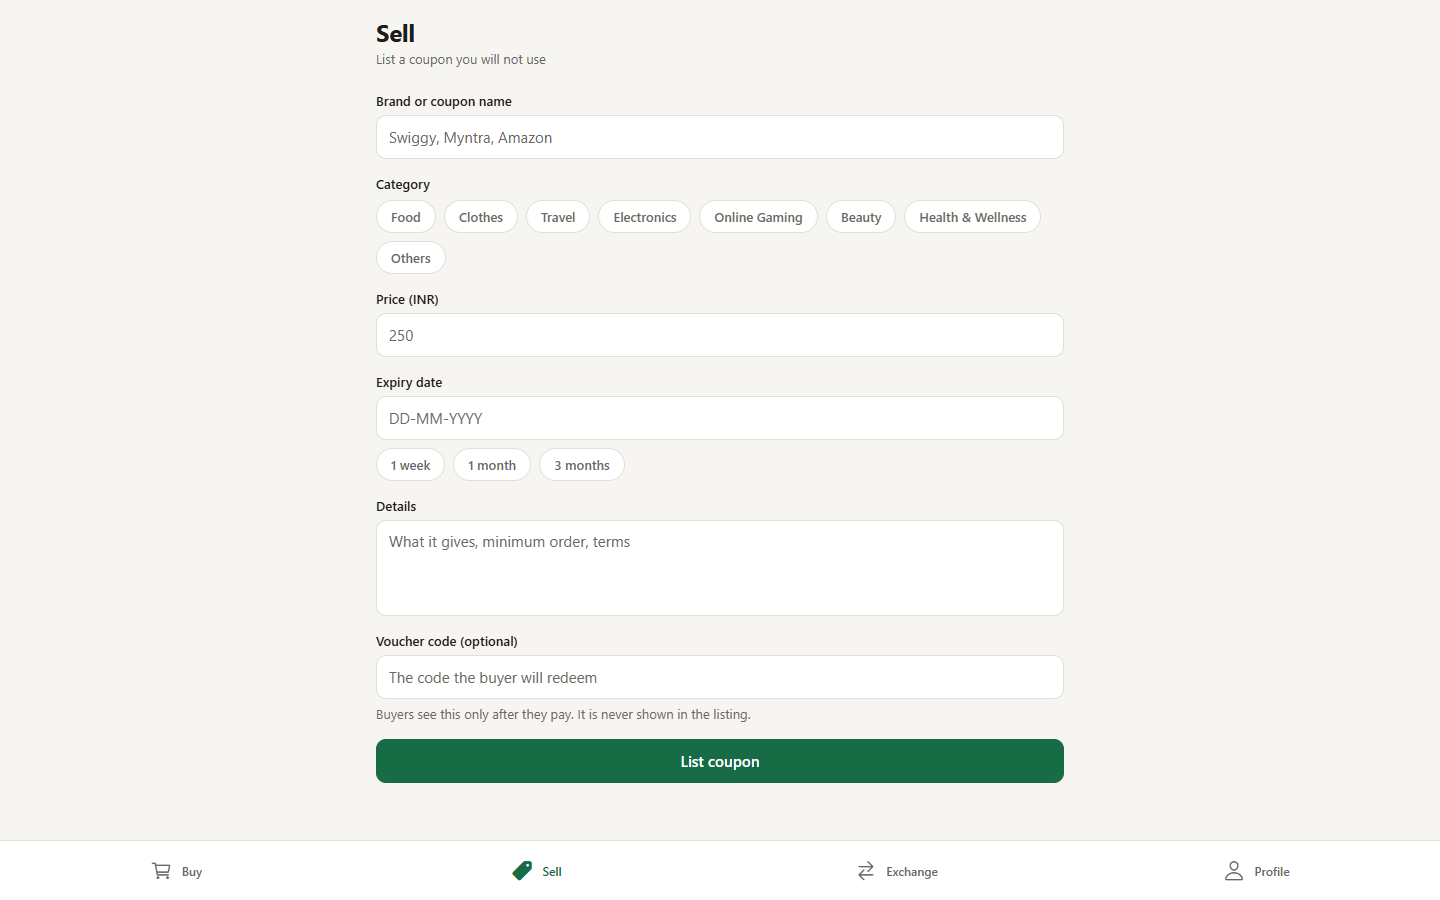
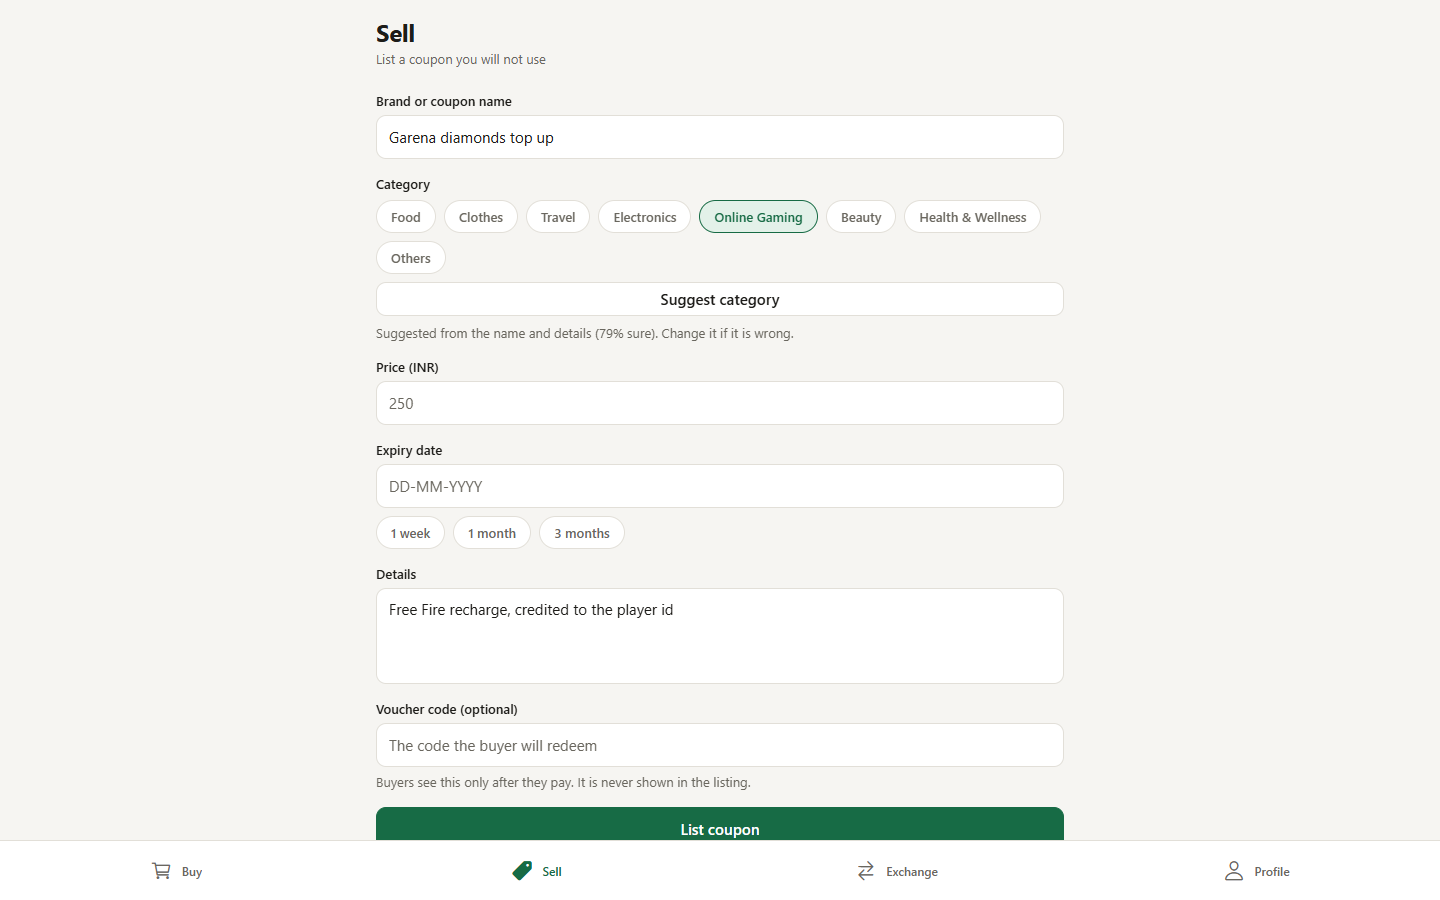
README: Sell screenshot and caption for the category suggestion

diff --git a/README.md b/README.md
@@ -82,7 +82,7 @@ in the first two minutes:
 <table>
   <tr>
     <td width="50%"><img src="docs/images/buy.png" alt="Buy screen with coupons grouped by expiry"><p align="center"><sub>Buy: listings sorted by soonest expiry; a tag shows a voucher code is included, never the code (<a href="#how-it-works">how a purchase works</a>)</sub></p></td>
-    <td width="50%"><img src="docs/images/sell.png" alt="Sell form with an optional voucher code field"><p align="center"><sub>Sell: list a coupon, optionally with a voucher code buyers see only after paying (<a href="#features">features</a>)</sub></p></td>
+    <td width="50%"><img src="docs/images/sell.png" alt="Sell form after Suggest category: Online Gaming is selected with a note that it is 79 percent sure"><p align="center"><sub>Sell: Suggest category fills the chip from the name and details and the seller can change it; an optional voucher code is shown to buyers only after they pay (<a href="#features">features</a>)</sub></p></td>
   </tr>
   <tr>
     <td width="50%"><img src="docs/images/exchange.png" alt="Exchange search with one match and an Offer a swap button"><p align="center"><sub>Exchange: find a match and offer a swap (<a href="#features">features</a>)</sub></p></td>
